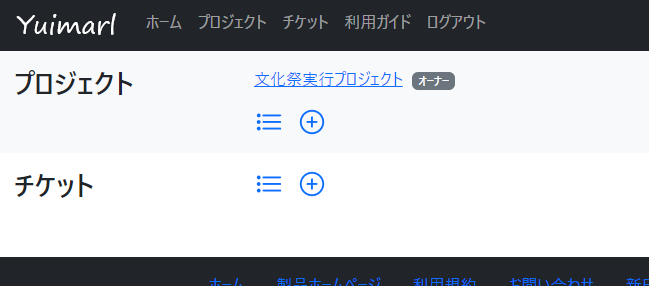
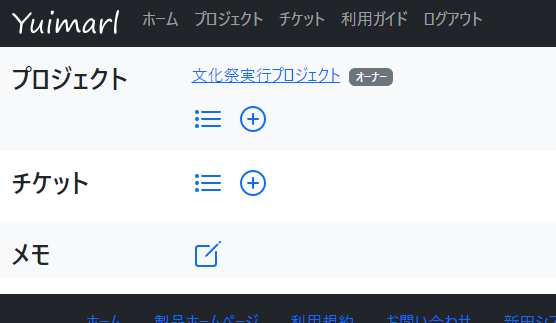
update

diff --git a/deploy.html b/deploy.html
@@ -99,7 +99,7 @@
                       <p>「サービスを作成」をクリックします。<a href="images/screen29.png"><img class="border border-info border-1 img-fluid" src="images/screen29.png"></a></p>
                       <p>「課金を有効にして Cloud Run の使用を継続します」画面が表示された場合は、「[お支払い]に移動」をクリックして支払いの設定を行います。<a href="images/screen30.png"><img class="border border-info border-1 img-fluid" src="images/screen30.png"></a></p>
                       <p>「サービスを作成」で次の画像のように設定します。<br>（&nbsp;「コンテナイメージのURL」は、<a href="https://hub.docker.com/repository/docker/masahironitta/yuimarl/general" target="_blank">Docker Hub</a>&nbsp; に登録されている最新のイメージを設定します）<a href="images/screen31.png"><img class="border border-info border-1 img-fluid" src="images/screen31.png"></a>
-                        <div class="alert alert-primary" role="alert">現在の最新イメージは、<br><b>masahironitta/yuimarl:1.0.17</b><br>です。<br><a href="https://hub.docker.com/repository/docker/masahironitta/yuimarl/general" target="_blank">Yuimarl Docker Hub レジストリ</a></div>
+                        <div class="alert alert-primary" role="alert">現在の最新イメージは、<br><b>masahironitta/yuimarl:1.0.18</b><br>です。<br><a href="https://hub.docker.com/repository/docker/masahironitta/yuimarl/general" target="_blank">Yuimarl Docker Hub レジストリ</a></div>
                       </p>
                       <p>「コンテナ、ボリューム、ネットワーキング、セキュリティ」の「コンテナ」の「設定」にある「ヘルスチェックを追加します」をクリックします。<a href="images/screen48.png"><img class="border border-info border-1 img-fluid" src="images/screen48.png"></a></p>
                       <p>「ライブネスチェック」と「HTTP」を選択し、パスに「/health」と入力し、「追加」をクリックします。<a href="images/screen43.png"><img class="border border-info border-1 img-fluid" src="images/screen43.png"></a></p>

diff --git a/howtouse.html b/howtouse.html
@@ -56,6 +56,7 @@
                       </ol>
                     </li>
                     <li><a href="#news">お知らせ</a></li>
+                    <li><a href="#memo">メモ</a></li>
                   </ol>
                 </section>
                 <hr>
@@ -380,6 +381,13 @@
                     <li>運用担当者からのお知らせ通知が発行された時。</li>
                   </ol>
                   <p>お知らせを削除するには、<img class="icon3" src="images/ionicons/close-outline.svg">&nbsp;アイコンをクリックします。</p>
+                </section>
+                <hr>
+                <section class="pb-2">
+                  <h3 id="memo">メモ</h3>
+                  <p>ホーム画面で、個人的なメモを記入することができます。<br>メモを入力するには、ホーム画面のメモ欄にある編集アイコンをクリックします。<a href="images/screen95.png"><img class="border border-info border-1 img-fluid" src="images/screen95.png"></a></p>
+                  <p>メモ入力画面が表示されるので、マークダウンで入力します。<br>入力したら、「更新」ボタンをクリックしてください。<br>マークダウンの入力方法は、<a href="markdown.html">マークダウン</a>&nbsp;をご覧ください。<a href="images/screen96.png"><img class="border border-info border-1 img-fluid" src="images/screen96.png"></a></p>
+                  <p>ホーム画面に入力したメモが表示されます。<br>このメモは、プロジェクトに関係なく、入力したユーザーのホーム画面に表示されます。他のユーザーの画面には表示されません。<a href="images/screen97.png"><img class="border border-info border-1 img-fluid" src="images/screen97.png"></a></p>
                 </section>
               </div>
               <div class="col-md-3">

diff --git a/markdown.html b/markdown.html
@@ -39,6 +39,7 @@
                     <li>プロジェクト画面のノートタブ</li>
                     <li>チケット画面のノートタブ</li>
                     <li>チケット画面のコメントタブ</li>
+                    <li>ホーム画面のメモ</li>
                   </ul><a href="images/screen79.png"><img class="border border-info border-1 img-fluid" src="images/screen79.png"></a>
                   <p class="pt-2">ノートタブで「編集」スイッチを ON にすると、[マークダウン] と [プレビュー] に分かれて表示されます。<br>[マークダウン] に、入力方法に従って入力すると、 [プレビュー] に変換された内容が表示されます。</p>
                   <div class="pb-3">

diff --git a/history.html b/history.html
@@ -107,6 +107,10 @@
                       <li>jQuery の使用をやめて、TypeScript での実装に変更。</li>
                       <li>プロジェクトからの離脱ができなくなっていた不具合を修正。</li>
                     </ul>
+                    <h6>2024/08/31 : version 1.0.18</h6>
+                    <ul>
+                      <li>ホーム画面で、<a href="howtouse.html#memo">メモの入力</a> ができるようにした。</li>
+                    </ul>
                   </section>
                 </section>
               </div>
